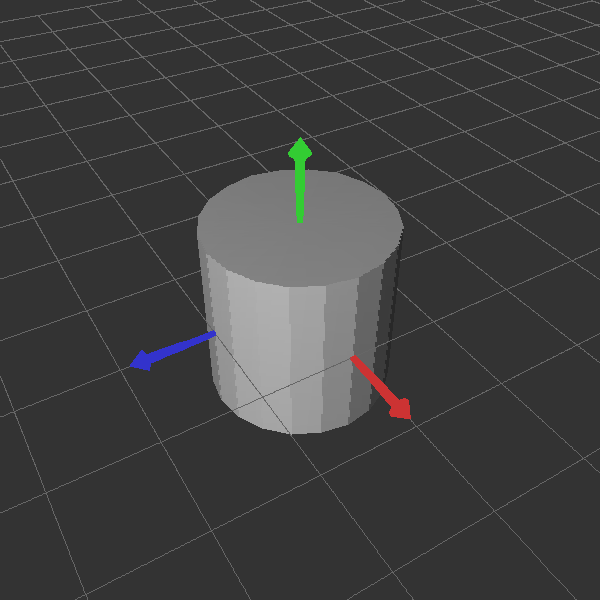
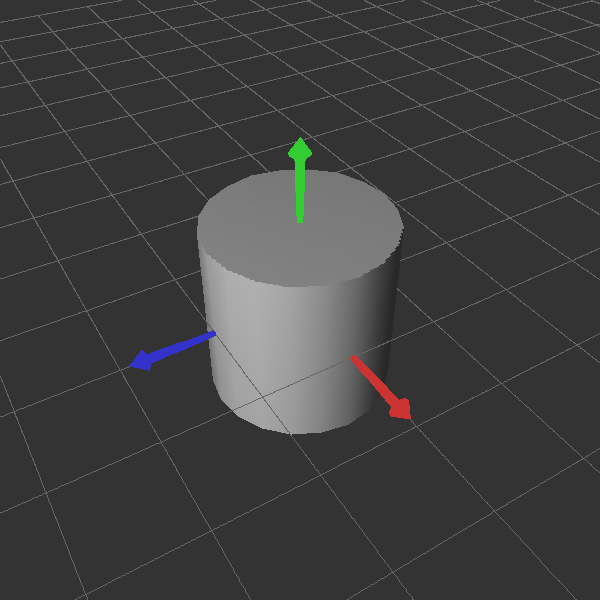
cylinder done

Changed region(s): [[0.57, 0.45, 0.66, 0.72]]

diff --git a/model/src/modeler/shape/Cylinder.java b/model/src/modeler/shape/Cylinder.java
@@ -35,39 +35,37 @@ public class Cylinder extends Shape {
 		// TODO: Part 2: Implement this method	
 
 		//get the flatness tolerance
-		//todo recalculate these when the slider changes
 		float flatnessTolerance = Shape.TOLERANCE;
 
 		//do all these calculations to get triangle points around cylinder
 		int numFacets = generateFacets(flatnessTolerance);
-
 		Point3f[] vertices = generateVertices(numFacets);
 		Vector3f[] normals = generateNormals(numFacets);
 		Point3i[] triangles = generateTriangles(numFacets);
 
 		//Print Result of Generating
-		System.out.println("-------------------------");
-		System.out.println("flatnessTolerance: " + flatnessTolerance);
-		System.out.println("numFacets: " + numFacets);
-		System.out.println("Vertices:");
-		int count = 0;
-		for (Point3f vertex : vertices) {
-			System.out.println("["+ count + "] " + vertex);
-			count++;
-		}
-		count = 0;
-		System.out.println("Normals:");
-		for (Vector3f normal : normals) {
-			System.out.println("["+ count + "] " + normal);
-			count++;
-		}
-		count = 0;
-		System.out.println("Triangles:");
-		for (Point3i triangle : triangles) {
-			System.out.println("["+ count + "] " + triangle);
-			count++;
-		}
-		System.out.println("-------------------------");
+		// System.out.println("-------------------------");
+		// System.out.println("flatnessTolerance: " + flatnessTolerance);
+		// System.out.println("numFacets: " + numFacets);
+		// System.out.println("Vertices:");
+		// int count = 0;
+		// for (Point3f vertex : vertices) {
+		// 	System.out.println("["+ count + "] " + vertex);
+		// 	count++;
+		// }
+		// count = 0;
+		// System.out.println("Normals:");
+		// for (Vector3f normal : normals) {
+		// 	System.out.println("["+ count + "] " + normal);
+		// 	count++;
+		// }
+		// count = 0;
+		// System.out.println("Triangles:");
+		// for (Point3i triangle : triangles) {
+		// 	System.out.println("["+ count + "] " + triangle);
+		// 	count++;
+		// }
+		// System.out.println("-------------------------");
 
 		//Build the mesh data arrays from the static mesh data
 		int vertLength = vertices.length;
@@ -115,6 +113,7 @@ public class Cylinder extends Shape {
 		}
 
 		numFacets -= 2;
+		//numFacets = 6;
 		return numFacets;
 	}
 
@@ -186,6 +185,10 @@ public class Cylinder extends Shape {
 			float x = CYLINDER_RADIUS * cos(Math.toRadians(angle));
 			float z = CYLINDER_RADIUS * sin(Math.toRadians(angle));
 			normals[i] = new Vector3f(x, 0.0f, z);
+			if (i == (numNormals*3)-1)
+			{
+				normals[i] = new Vector3f(0, -CYLINDER_HEIGHT/2, 0);
+			}
 		}
 
 		//generate normals for side vertices (top layer)
@@ -195,6 +198,10 @@ public class Cylinder extends Shape {
 			float x = CYLINDER_RADIUS * cos(Math.toRadians(angle));
 			float z = CYLINDER_RADIUS * sin(Math.toRadians(angle));
 			normals[i] = new Vector3f(x, 0.0f, z);
+			if (i == (numNormals*4)-1)
+			{
+				normals[i] = new Vector3f(0, CYLINDER_HEIGHT/2, 0);
+			}
     	}
 
 		return normals;
@@ -263,7 +270,6 @@ public class Cylinder extends Shape {
 			triangles[i] = new Point3i(bottomVertex1, topVertex1, bottomVertex2);
 			triangles[i + numFacets] = new Point3i(bottomVertex2, topVertex1, topVertex2);
 		}
-
 		return triangles;
 	}
 }

diff --git a/model/src/modeler/shape/Mesh.java b/model/src/modeler/shape/Mesh.java
@@ -145,17 +145,32 @@ public class Mesh {
 
 		for (int i = 0 ; i < numTriangles; i++)
 		{
+			//vertex indeces
 			int v1Index = triangles.get(i * 3);
 			int v2Index = triangles.get(i * 3 + 1);
 			int v3Index = triangles.get(i * 3 + 2);
 
+			// vertex / normal 1
 			gl.glNormal3f(normals.get(v1Index * 3), normals.get(v1Index * 3 + 1), normals.get(v1Index * 3 + 2));
-			gl.glNormal3f(normals.get(v2Index * 3), normals.get(v2Index * 3 + 1), normals.get(v2Index * 3 + 2));
-			gl.glNormal3f(normals.get(v3Index * 3), normals.get(v3Index * 3 + 1), normals.get(v3Index * 3 + 2));
-
 			gl.glVertex3f(verts.get(v1Index * 3), verts.get(v1Index * 3 + 1), verts.get(v1Index * 3 + 2));
+
+			// vertex / normal 2
+			gl.glNormal3f(normals.get(v2Index * 3), normals.get(v2Index * 3 + 1), normals.get(v2Index * 3 + 2));
 			gl.glVertex3f(verts.get(v2Index * 3), verts.get(v2Index * 3 + 1), verts.get(v2Index * 3 + 2));
+
+			// vertex / normal 3
+			gl.glNormal3f(normals.get(v3Index * 3), normals.get(v3Index * 3 + 1), normals.get(v3Index * 3 + 2));
 			gl.glVertex3f(verts.get(v3Index * 3), verts.get(v3Index * 3 + 1), verts.get(v3Index * 3 + 2));
+
+			//testing output
+			// System.out.println("Triangles #: " + i);
+			// System.out.println("normal 1: (" + normals.get(v1Index * 3) + ", " + normals.get(v1Index * 3+1) + ", " + normals.get(v1Index * 3+2) + ")");
+			// System.out.println("normal 2: (" + normals.get(v2Index * 3) + ", " + normals.get(v2Index * 3+1) + ", " + normals.get(v2Index * 3+2) + ")");
+			// System.out.println("normal 3: (" + normals.get(v3Index * 3) + ", " + normals.get(v3Index * 3+1) + ", " + normals.get(v3Index * 3+2) + ")");
+			// System.out.println("vert 1: (" + verts.get(v1Index * 3) + ", " + verts.get(v1Index * 3+1) + ", " + verts.get(v1Index * 3+2) + ")");
+			// System.out.println("vert 2: (" + verts.get(v2Index * 3) + ", " + verts.get(v2Index * 3+1) + ", " + verts.get(v2Index * 3+2) + ")");
+			// System.out.println("vert 3: (" + verts.get(v3Index * 3) + ", " + verts.get(v3Index * 3+1) + ", " + verts.get(v3Index * 3+2) + ")");
+			// System.out.println("");
 		}
 
 		gl.glEnd();

diff --git a/model/src/modeler/shape/Sphere.java b/model/src/modeler/shape/Sphere.java
@@ -96,25 +96,37 @@ public class Sphere extends Shape {
 		}
 
 		numFacets -= 2;
-		numFacets = 6;
+		//numFacets = 6;
 		return numFacets;
 	}
 
 	Point3f[] generateVertices(int numFacets)
 	{	
-		int numVertices = numFacets+1;
+
 		
+		//x = cos(lat) * cos(lon)
+		//y = sin(lat)
+		//z = - cos(lat) * sin(lon) 
+
+		//radius = cos(lat)
+
+
+		int numVertices = numFacets+1;
+		int numLayers = (int)(180.0 / (numFacets * 2)) + 1;
+		//numLayers = 3;
+		int longitude = 0, lattitude = 0;
+
 		Point3f[] vertices = new Point3f[numVertices*2*2];
 		
 		int index = 0;
 		for (int i = 0; i <= numFacets; i++) {
-            for (int j = 0; j <= numFacets; j++) {
+            for (int j = 0; j <= numLayers; j++) {
                 double theta = i * Math.PI / numFacets;
                 double phi = j * 2 * Math.PI / numFacets;
 
-                float x = SPHERE_RADIUS * sin(theta) * cos(phi);
-                float y = SPHERE_RADIUS * cos(theta);
-                float z = SPHERE_RADIUS * sin(theta) * sin(phi);
+                float x = SPHERE_RADIUS * cos(longitude);
+                float y = SPHERE_RADIUS * sin(lattitude);
+                float z = SPHERE_RADIUS * -sin(longitude);
 
                 vertices[index++] = new Point3f(x, y, z);
             }

diff --git a/model/src/modeler/shape/Shape.java b/model/src/modeler/shape/Shape.java
@@ -101,10 +101,10 @@ public abstract class Shape extends SceneNode {
 			gl.glLoadName(pickId);
 
 			///// TODO: Part 1: fill in code to set up the material parameters
-			gl.glMaterialfv(GL.GL_FRONT, GL.GL_AMBIENT, diffuseColor);
-			gl.glMaterialfv(GL.GL_FRONT, GL.GL_DIFFUSE, diffuseColor);
-			gl.glMaterialfv(GL.GL_FRONT, GL.GL_SPECULAR, specularColor);
-			gl.glMaterialf(GL.GL_FRONT, GL.GL_SHININESS, expSpecular);
+			gl.glMaterialfv(GL.GL_FRONT_AND_BACK, GL.GL_AMBIENT, getDiffuseColor());
+			gl.glMaterialfv(GL.GL_FRONT_AND_BACK, GL.GL_DIFFUSE, getDiffuseColor());
+			gl.glMaterialfv(GL.GL_FRONT_AND_BACK, GL.GL_SPECULAR, getSpecularColor());
+			gl.glMaterialf(GL.GL_FRONT_AND_BACK, GL.GL_SHININESS, getExpSpecular());
 
 			gl.glColor4d(1,1,1,1);
 			mesh.render(gl);
